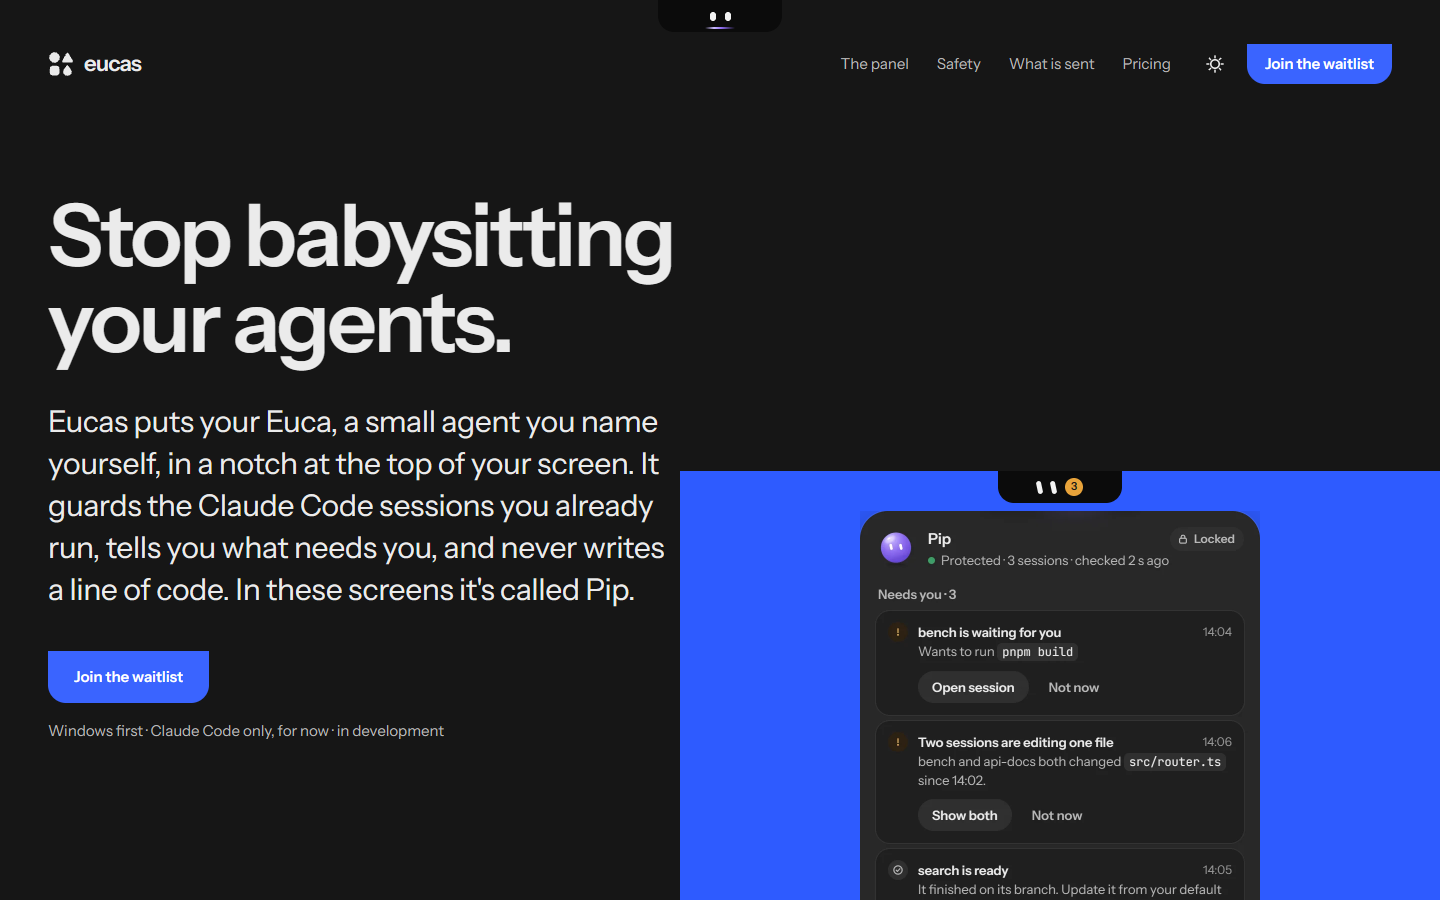
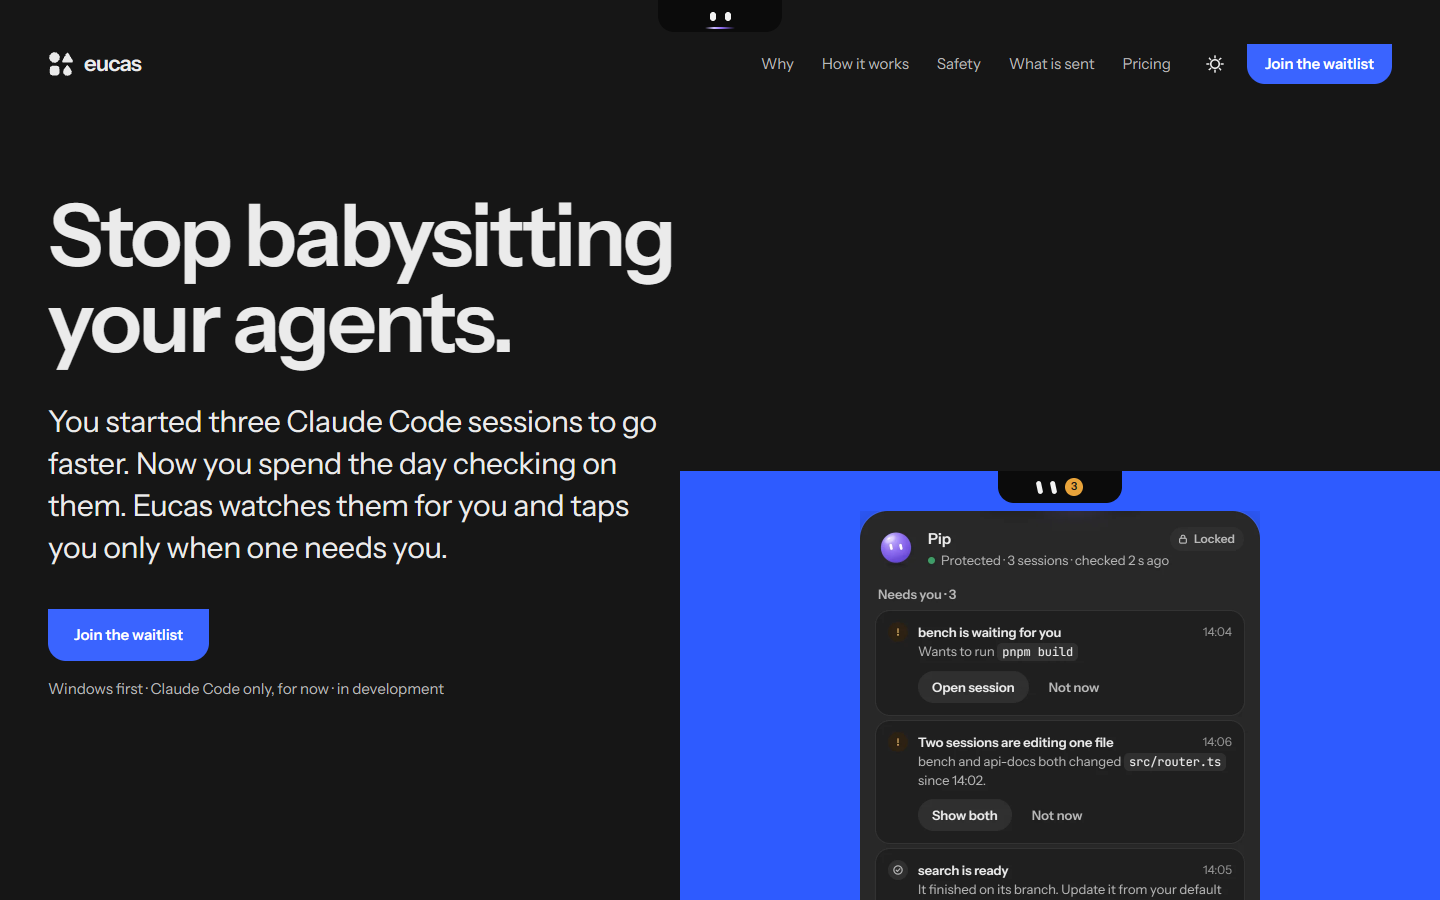
feat(landing): rewrite the page why-first, for the person running the sessions
- Hero: the pain first ("You started three Claude Code sessions to go faster. Now you spend the day checking on them."), then the promise.
- New "Running agents shouldn't feel like this.": four pains from a real day (waiting for a yes, a delete you didn't read, the limit mid-task, two sessions on one file), each with its fix. Replaces the eye-grammar board.
- Headings speak to the outcome: "Know which session needs you", "Look away without fear", "Stop saying yes to the same command", "What leaves your PC, word for word".
- Same-file warning added as a panel tab (new capture); naming your Euca moves to one line before the privacy text.
- Plain words in pricing, "Before you install" trimmed to four facts, FAQ to three; repeats removed.

Changed region(s): [[0.0312, 0.4356, 0.4688, 0.84], [0.5312, 0.0622, 0.625, 0.0933]]

diff --git a/apps/landing/public/index.html b/apps/landing/public/index.html
@@ -4,7 +4,7 @@
 <meta charset="utf-8">
 <meta name="viewport" content="width=device-width, initial-scale=1">
 <title>Eucas: an agentsitter for your Claude Code sessions</title>
-<meta name="description" content="Eucas puts your Euca, a small agent you name yourself, in a notch at the top of your Windows screen. It guards the Claude Code sessions you already run, tells you what needs you, and never writes code. Join the waitlist.">
+<meta name="description" content="You run Claude Code sessions to go faster, then spend the day checking on them. Eucas watches them for you on Windows and taps you only when one needs you. Join the waitlist.">
 <link rel="canonical" href="https://eucas.app/">
 <meta name="color-scheme" content="dark light">
 <meta name="theme-color" content="#161616">
@@ -52,7 +52,8 @@
     <span>eucas</span>
   </a>
   <nav class="nav-links" aria-label="Main">
-    <a href="#panel">The panel</a>
+    <a href="#problem">Why</a>
+    <a href="#panel">How it works</a>
     <a href="#never">Safety</a>
     <a href="#sent">What is sent</a>
     <a href="#pricing">Pricing</a>
@@ -72,7 +73,7 @@
 <section class="hero" data-state="working" aria-labelledby="hero-title">
   <div class="wrap hero-copy">
     <h1 id="hero-title" data-rise>Stop babysitting your agents.</h1>
-    <p class="lede" data-rise>Eucas puts your Euca, a small agent you name yourself, in a notch at the top of your screen. It guards the Claude Code sessions you already run, tells you what needs you, and never writes a line of code. In these screens it's called Pip.</p>
+    <p class="lede" data-rise>You started three Claude Code sessions to go faster. Now you spend the day checking on them. Eucas watches them for you and taps you only when one needs you.</p>
     <div class="hero-actions" data-rise>
       <a class="btn" href="#join">Join the waitlist</a>
       <p class="hero-note">Windows first · Claude Code only, for now · in development</p>
@@ -86,17 +87,14 @@
   </div>
 </section>
 
-<!-- Proof: the notch's states, large, each on its own tile. -->
-<section class="states wrap" data-state="marker" aria-labelledby="states-title">
-  <ul class="board" data-ui>
-    <li class="tile tile-head" data-rise><h2 id="states-title">Read your Euca at a glance.</h2></li>
-    <li class="tile" data-rise><span class="tile-notch" data-ui aria-hidden="true"><span class="eyes" data-x="calm"><i></i><i></i></span></span><p><b>Calm.</b> Protected, nothing running. It follows your pointer and blinks.</p></li>
-    <li class="tile" data-rise><span class="tile-notch" data-ui aria-hidden="true"><span class="eyes" data-x="focused"><i></i><i></i></span></span><p><b>Focused.</b> Your sessions are working. The eyes read left to right.</p></li>
-    <li class="tile" data-rise><span class="tile-notch" data-ui aria-hidden="true"><span class="eyes" data-x="glance"><i></i><i></i></span></span><p><b>Glance.</b> Something just arrived: one look at it.</p></li>
-    <li class="tile" data-rise><span class="tile-notch" data-ui aria-hidden="true"><span class="eyes" data-x="front"><i></i><i></i></span></span><p><b>Toward you.</b> A session is waiting for you.</p></li>
-    <li class="tile" data-rise><span class="tile-notch" data-ui aria-hidden="true"><span class="eyes" data-x="concerned"><i></i><i></i></span></span><p><b>Concerned.</b> Something needs a look. Softened, never alarmed.</p></li>
-    <li class="tile" data-rise><span class="tile-notch" data-ui aria-hidden="true"><span class="eyes" data-x="sleepy"><i></i><i></i></span></span><p><b>Sleepy.</b> You're away and nothing runs.</p></li>
-    <li class="tile" data-rise><span class="tile-notch" data-ui aria-hidden="true"><span class="eyes" data-x="pleased"><i></i><i></i></span></span><p><b>Pleased.</b> You're all caught up.</p></li>
+<!-- Why: the visitor's own day, each pain with its fix. -->
+<section class="problem wrap" id="problem" data-state="marker" aria-labelledby="problem-title">
+  <h2 id="problem-title" data-rise>Running agents shouldn't feel like this.</h2>
+  <ul class="pains">
+    <li data-rise><p class="pain">Waiting for your yes since minute two.</p><p class="fix">You see it the second a session stops.</p></li>
+    <li data-rise><p class="pain">One delete you didn't read.</p><p class="fix">It can't happen without you.</p></li>
+    <li data-rise><p class="pain">Your limit, hit with the task half done.</p><p class="fix">You see when you'll run out, with time to spare.</p></li>
+    <li data-rise><p class="pain">Two sessions, one file.</p><p class="fix">You're warned before one overwrites the other.</p></li>
   </ul>
 </section>
 
@@ -108,15 +106,17 @@
       <img src="screens/needs-dark.webp" data-dark="screens/needs-dark.webp" data-light="screens/needs-light.webp" width="800" height="1280" loading="lazy" decoding="async" alt="" data-show-img>
     </picture>
   </div>
+
   <div class="show-side">
     <div class="tabs" role="tablist" aria-label="The panel" data-rise>
       <button type="button" role="tab" id="tab-needs" aria-selected="true" aria-controls="show-text" data-show="needs">Needs you</button>
       <button type="button" role="tab" id="tab-usage" aria-selected="false" aria-controls="show-text" tabindex="-1" data-show="usage">Usage</button>
+      <button type="button" role="tab" id="tab-same" aria-selected="false" aria-controls="show-text" tabindex="-1" data-show="same">Same file</button>
       <button type="button" role="tab" id="tab-rules" aria-selected="false" aria-controls="show-text" tabindex="-1" data-show="rules">Rules</button>
     </div>
     <div id="show-text" role="tabpanel" aria-labelledby="tab-needs" data-rise>
-      <h2 id="show-title" data-show-title>One click under the notch.</h2>
-      <p data-show-text>Hover the notch for a peek, click it for the panel. What waits on you sits on top, one action each. Nothing opens by itself.</p>
+      <h2 id="show-title" data-show-title>Know which session needs you.</h2>
+      <p data-show-text>One glance at the top of your screen. Hover for a peek, click for the panel. Nothing pops up and nothing steals your focus.</p>
     </div>
     <div class="cells" data-rise>
       <a class="cell cell-ink" href="#join">Join the waitlist</a>
@@ -129,14 +129,15 @@
 <section class="never" id="never" data-state="trip" aria-labelledby="never-title">
   <div class="wrap never-in">
     <div class="never-copy">
-      <h2 id="never-title" data-rise>Four things it never approves.</h2>
+      <h2 id="never-title" data-rise>Look away without fear.</h2>
+      <p class="never-lead" data-rise>Four things always come to you:</p>
       <ul class="limits" data-rise>
         <li>A delete</li>
         <li>A push to your default branch</li>
         <li>A send</li>
         <li>A payment</li>
       </ul>
-      <p data-rise>Setup locks these four limits with one Windows admin prompt, where no agent or repo can change them. If a session starts deleting files in bulk, the tripwire stops it and shows you what went and how to get it back.</p>
+      <p data-rise>They're locked where no agent or repo can change them. And if a session starts deleting files in bulk, it's stopped, and you see what went and how to get it back.</p>
     </div>
     <figure class="trip" data-rise>
       <img src="screens/tripwire-dark.webp" data-dark="screens/tripwire-dark.webp" data-light="screens/tripwire-light.webp" width="800" height="993" loading="lazy" decoding="async" alt="Tripwire stop: Pip stopped the notes session at 14:02:31. It deleted 1,240 files in 20 seconds. What was deleted: notes/drafts/ 912 files, notes/archive/2025/ 301 files, notes/.obsidian/ 27 files. How to get them back: git restore, or File History.">
@@ -147,8 +148,8 @@
 <!-- Rules: sentences with real switches. The last one is locked and doesn't move. -->
 <section class="rules" data-state="working" aria-labelledby="rules-title">
   <div class="wrap rules-head">
-    <h2 id="rules-title" data-rise>Rules you can read.</h2>
-    <p data-rise>Say once what your sessions may do without asking, scoped to one folder. Describe a rule in plain words and your Euca drafts it exactly. Your rules always decide first.</p>
+    <h2 id="rules-title" data-rise>Stop saying yes to the same command.</h2>
+    <p data-rise>Say once what your sessions may do, scoped to one folder, or describe it in plain words and your Euca writes the rule. Try them.</p>
   </div>
   <ul class="bands">
     <li class="band" data-band="mint">
@@ -181,7 +182,8 @@
 <!-- The supervisor: what is sent, word for word, and the real redacted example from setup. -->
 <section class="sent wrap" id="sent" data-state="focused" aria-labelledby="sent-title">
   <div class="sent-copy">
-    <h2 id="sent-title" data-rise>What is sent, word for word.</h2>
+    <h2 id="sent-title" data-rise>What leaves your PC, word for word.</h2>
+    <p class="statement" data-rise>Your Euca is called Pip here; you name yours.</p>
     <p class="statement" data-rise>When Pip isn't sure, it sends the waiting session's last message, trimmed and with code, paths and secrets removed, to the supervisor. Nothing else about your work leaves this PC. Your account holds only your email, your plan and how much supervisor help you've used.</p>
   </div>
   <div class="sent-side">
@@ -193,7 +195,6 @@
     <ul class="facts" data-rise>
       <li><b>The supervisor is always on and can't be switched off.</b></li>
       <li><b>It never approves a tool call.</b> It can nudge a stopped session on, answer from your rules, or ask you.</li>
-      <li><b>Its help is counted monthly.</b> When it runs out, your Euca asks you more often until the meter resets.</li>
     </ul>
   </div>
 </section>
@@ -202,12 +203,12 @@
 <section class="pricing wrap" id="pricing" data-state="rest" aria-labelledby="pricing-title">
   <div class="free">
     <h2 id="pricing-title" data-rise>Free, or Pro.</h2>
-    <p data-rise><b>Free</b> keeps every session safe, with no card:</p>
+    <p data-rise><b>Free</b>, with no card:</p>
     <ul class="lines" data-rise>
-      <li>The guard, and the four limits locked</li>
-      <li>The tripwire for mass deletes</li>
-      <li>Your rules, and the ledger of where your usage went</li>
-      <li>The supervisor: a 14-day trial from the end of setup, then a free taste every month</li>
+      <li>The four limits, locked</li>
+      <li>A stop when a session deletes files in bulk</li>
+      <li>Your rules, and where your usage went</li>
+      <li>The supervisor in full for 14 days, then a little every month</li>
     </ul>
     <a class="btn btn-quiet" href="#join" data-plan="free" data-rise>Join for Free</a>
   </div>
@@ -218,7 +219,7 @@
     </figure>
     <ul class="lines" data-rise>
       <li>Everything in Free</li>
-      <li>Much more supervisor help, every month</li>
+      <li>Much more supervisor help every month</li>
       <li>Budgets that stop a session before its next step</li>
       <li>The first 200 who pay keep <b>$15/month for life</b></li>
     </ul>
@@ -230,11 +231,10 @@
 <section class="know wrap" data-state="rest" aria-labelledby="know-title">
   <h2 id="know-title" data-rise>Before you install.</h2>
   <dl class="know-list" data-rise>
+    <div><dt>Windows and Claude Code, for now</dt><dd>Sessions in a terminal, the desktop app or VS Code. What comes next depends on the waitlist's answers.</dd></div>
+    <div><dt>Your Claude login stays yours</dt><dd>Eucas never sees or stores it.</dd></div>
     <div><dt>A Eucas account, by email</dt><dd>You sign in with your email and a 6-digit code, no password.</dd></div>
-    <div><dt>Your Claude login stays yours</dt><dd>Eucas never sees or stores your Claude credentials. It works beside Claude Code through its hooks and the history already on your PC.</dd></div>
-    <div><dt>Claude Code, for now</dt><dd>Claude Code sessions only, in a terminal, the desktop app or VS Code. What comes next depends on the waitlist's answers.</dd></div>
-    <div><dt>Windows first, unsigned</dt><dd>The first build isn't code-signed yet, so Windows will say "Unknown publisher". Each installer's SHA-256 is published so you can check it.</dd></div>
-    <div><dt>Code you can read</dt><dd>The source is public on GitHub under the FSL licence, so you can check every claim on this page.</dd></div>
+    <div><dt>The first build is unsigned</dt><dd>Windows will say "Unknown publisher". Each installer's SHA-256 is published so you can check it.</dd></div>
   </dl>
 </section>
 
@@ -293,7 +293,6 @@
   <ul class="cards" data-faq>
     <li class="card"><h3><button type="button" aria-expanded="true" aria-controls="a1" id="q1"><span class="tab">Today</span>Can I use it today?</button></h3><div class="a" id="a1" role="region" aria-labelledby="q1"><p>Not yet. Eucas is in development. The waitlist gets the first Windows build, and you'll hear from us when it's ready to install.</p></div></li>
     <li class="card"><h3><button type="button" aria-expanded="false" aria-controls="a4" id="q4"><span class="tab">Agents</span>Does it work with Cursor or Codex?</button></h3><div class="a" id="a4" role="region" aria-labelledby="q4" hidden><p>Not yet. Claude Code comes first. Which one follows depends on the answers to "Which agents do you use?" in the waitlist.</p></div></li>
-    <li class="card"><h3><button type="button" aria-expanded="false" aria-controls="a5" id="q5"><span class="tab">Pro</span>What does the founders' price mean?</button></h3><div class="a" id="a5" role="region" aria-labelledby="q5" hidden><p>It belongs to your Eucas account, not your PC, for as long as you keep Pro. Free stays free.</p></div></li>
     <li class="card"><h3><button type="button" aria-expanded="false" aria-controls="a6" id="q6"><span class="tab">Computers</span>macOS or Linux?</button></h3><div class="a" id="a6" role="region" aria-labelledby="q6" hidden><p>Windows first. Tell us your computer after you join the waitlist: it's how we decide which one is next.</p></div></li>
   </ul>
 </section>

diff --git a/apps/landing/public/styles.css b/apps/landing/public/styles.css
@@ -174,6 +174,7 @@ h3 { font-size: var(--t-m); font-weight: 600; letter-spacing: -0.015em; line-hei
 .beam i { position: absolute; inset: 0 auto 0 0; width: 46%; border-radius: 2px; background: linear-gradient(90deg, transparent, var(--euca-light) 30%, var(--euca-base) 55%, transparent); /* taste-skill-ignore: the product's working beam */ animation: sweep 1.7s ease-in-out infinite alternate; }
 .notch[data-state="working"] .beam { opacity: 1; }
 @keyframes sweep { to { transform: translateX(118%); } }
+@keyframes scan { from { transform: translateX(-2px); } to { transform: translateX(2px); } } /* Focused: the eyes read left to right */
 
 .peek {
   position: absolute; top: 0; width: min(372px, calc(100vw - 32px)); padding: 40px 16px 14px;
@@ -232,29 +233,17 @@ h3 { font-size: var(--t-m); font-weight: 600; letter-spacing: -0.015em; line-hei
 .hero-panel { width: 400px; margin-top: 40px; flex: none; }
 .hero-panel img { width: 400px; }
 
-/* ---------- Proof: the notch's states on tiles ---------- */
-.states { margin-top: var(--gap-section); }
-.board { display: grid; grid-template-columns: repeat(4, 1fr); gap: 8px; }
-.tile {
-  position: relative; display: flex; flex-direction: column; justify-content: flex-end; gap: 10px;
-  min-height: 230px; padding: 0 24px 24px; background: var(--surface); border-radius: 0 0 var(--nr) var(--nr); overflow: hidden;
+/* ---------- Why: the visitor's day, each pain with its fix ---------- */
+.problem { margin-top: var(--gap-section); }
+.problem h2 { max-width: 16ch; }
+.pains { margin-top: 56px; display: grid; gap: 8px; }
+.pains li {
+  display: grid; grid-template-columns: 7fr 5fr; gap: 32px; align-items: center;
+  padding: 36px clamp(20px, 3vw, 40px); background: var(--surface); border-radius: 0 0 var(--nr) var(--nr);
 }
-/* each tile carries a notch hanging from its top edge, drawn to the eye grammar (DESIGN.md §11) */
-.tile-notch { position: absolute; top: 0; left: 50%; transform: translateX(-50%) scale(1.6); transform-origin: top center; display: flex; align-items: center; justify-content: center; width: 124px; height: 32px; background: var(--notch-bg); border-radius: 0 0 16px 16px; }
-.eyes[data-x] i { transition: none; }
-.eyes[data-x="glance"] i { transform: translate(3px, 1px) rotate(-12deg); }
-.eyes[data-x="focused"] i { width: 6px; height: 9px; border-radius: 3px; transform: none; animation: scan 2.4s ease-in-out infinite alternate; }
-@keyframes scan { from { transform: translateX(-2px); } to { transform: translateX(2px); } }
-.eyes[data-x="front"] i { transform: translateY(-1.5px) rotate(-12deg); }
-.eyes[data-x="concerned"] i:first-child { transform: translateY(1.5px) rotate(16deg); }
-.eyes[data-x="concerned"] i:last-child { transform: translateY(1.5px) rotate(-16deg); }
-.eyes[data-x="sleepy"] i { width: 9px; height: 2.6px; background: var(--notch-eye-dim); transform: translateY(3px); }
-.eyes[data-x="pleased"] i { width: 9px; height: 5px; border-radius: 9px 9px 3px 3px; transform: translateY(-1px); }
-.tile p { font-size: var(--t-s); color: var(--muted); }
-.tile p b { color: var(--ink); font-weight: 600; }
-.tile-head { justify-content: flex-end; padding: 28px; background: var(--ink); color: var(--on-ink); }
-.tile-head h2 { font-size: clamp(26px, 2.4vw, 36px); }
-.tile-head p { color: var(--on-ink); font-size: var(--t-b); max-width: 40ch; }
+.pain { font-size: clamp(24px, 2.6vw, 36px); font-weight: 600; letter-spacing: -0.025em; line-height: 1.15; }
+.fix { color: var(--muted); }
+.fix::before { content: ""; display: block; width: 30px; height: 12px; margin-bottom: 12px; background: var(--ink); border-radius: 0 0 6px 6px; } /* the notch, at text size */
 
 /* ---------- Showcase: a square plate and the panel's tabs ---------- */
 .show { margin-top: var(--gap-section); display: grid; grid-template-columns: 1fr 1fr; gap: clamp(32px, 5vw, 88px); align-items: stretch; min-height: 88svh; }
@@ -283,8 +272,9 @@ h3 { font-size: var(--t-m); font-weight: 600; letter-spacing: -0.015em; line-hei
 /* ---------- The band: notch black in both themes ---------- */
 .never { margin-top: var(--gap-section); background: var(--notch-bg); color: var(--notch-text); padding-block: clamp(96px, 10vw, 160px); }
 .never-in { display: grid; grid-template-columns: 1.15fr 1fr; gap: clamp(32px, 6vw, 96px); align-items: center; }
-.never h2 { max-width: 11ch; }
-.limits { margin-top: 40px; display: grid; gap: 10px; }
+.never h2 { max-width: 12ch; }
+.never-lead { margin-top: 32px; color: var(--notch-text-2); }
+.limits { margin-top: 16px; display: grid; gap: 10px; }
 .limits li { display: flex; align-items: center; gap: 16px; font-size: var(--t-m); font-weight: 600; letter-spacing: -0.015em; }
 .limits li::before { content: ""; flex: none; width: 30px; height: 12px; background: var(--notch-eye); border-radius: 0 0 6px 6px; } /* the notch, at text size */
 .never-copy > p:last-child { margin-top: 40px; max-width: 52ch; color: var(--notch-text-2); }
@@ -296,6 +286,7 @@ h3 { font-size: var(--t-m); font-weight: 600; letter-spacing: -0.015em; line-hei
 .rules { margin-top: var(--gap-section); }
 .rules-head { display: grid; grid-template-columns: 1fr 1fr; gap: 48px; align-items: end; margin-bottom: 56px; }
 .rules-head p { max-width: 44ch; }
+.rules h2 { max-width: 14ch; }
 .band { background: var(--bg); transition: background-color 0.4s var(--ease); }
 .band.is-on[data-band="mint"] { background: var(--band-mint); }
 .band.is-on[data-band="honey"] { background: var(--band-honey); }
@@ -320,7 +311,8 @@ h3 { font-size: var(--t-m); font-weight: 600; letter-spacing: -0.015em; line-hei
 
 /* ---------- What is sent ---------- */
 .sent { margin-top: var(--gap-section); display: grid; grid-template-columns: 5fr 7fr; gap: clamp(32px, 5vw, 80px); align-items: start; }
-.sent h2 { max-width: 11ch; }
+.sent h2 { max-width: 13ch; }
+.sent .statement + .statement { margin-top: 20px; }
 .statement { margin-top: 40px; font-size: clamp(20px, 1.8vw, 24px); line-height: 1.45; letter-spacing: -0.01em; }
 .sent-side { padding-top: 8px; }
 .sent-shot { padding: 64px clamp(16px, 3vw, 40px) 32px; background: var(--stage); border-radius: 0 0 var(--nr) var(--nr); position: relative; }
@@ -445,7 +437,6 @@ h3 { font-size: var(--t-m); font-weight: 600; letter-spacing: -0.015em; line-hei
 /* ---------- Narrower screens ---------- */
 @media (max-width: 1100px) {
   .nav-links { display: none; }
-  .board { grid-template-columns: repeat(2, 1fr); }
   .facts { grid-template-columns: 1fr; gap: 16px; }
 }
 
@@ -461,12 +452,11 @@ h3 { font-size: var(--t-m); font-weight: 600; letter-spacing: -0.015em; line-hei
   .hero-stage { position: relative; left: auto; top: auto; margin-top: 48px; height: 520px; }
   .hero-panel { width: min(400px, calc(100vw - 32px)); }
   .hero-panel img { width: 100%; }
-  .tile { min-height: 200px; padding: 0 16px 16px; }
-  .tile-notch { transform: translateX(-50%); }
-  .tile:last-child { grid-column: 1 / -1; }
-  .tile-head { grid-column: 1 / -1; min-height: 0; gap: 16px; padding: 24px 20px; }
+  .pains li { grid-template-columns: 1fr; gap: 12px; padding: 24px 20px; }
   .show { grid-template-columns: 1fr; min-height: 0; gap: 32px; }
   .show-side { gap: 32px; }
+  .tabs { gap: 18px; }
+  .tabs button { font-size: 16px; }
   .show-side [role="tabpanel"] p { margin-top: 20px; }
   .cells { grid-template-columns: 1fr; }
   .cell { min-height: 60px; }

diff --git a/apps/landing/public/main.js b/apps/landing/public/main.js
@@ -114,12 +114,14 @@
 
   // The panel's own tabs pick the screen on the plate.
   const SHOW = {
-    needs: ["One click under the notch.", "Hover the notch for a peek, click it for the panel. What waits on you sits on top, one action each. Nothing opens by itself.", "needs",
+    needs: ["Know which session needs you.", "One glance at the top of your screen. Hover for a peek, click for the panel. Nothing pops up and nothing steals your focus.", "needs",
       "The panel. Needs you, 3: bench is waiting for you and wants to run pnpm build; two sessions are editing one file; search is ready, open a PR for search with the tests first."],
-    usage: ["Where your usage went.", "Your 5-hour and weekly Claude usage, when you'll reach the limit at today's pace, and which projects used it.", "usage",
-      "The Usage tab: the 5-hour window at 46 percent, resetting at 15:40, with a forecast of when you reach it; the week at 62 percent; where it went by project; the supervisor meter."],
-    rules: ["Your rules, locked or not.", "The four limits are locked. Your own rules sit under them, each with a switch.", "rules",
-      "The Rules tab: the promise, the four limits locked, and your rules with switches, such as allow pnpm test in bench."],
+    usage: ["See your limit coming.", "Your 5-hour and weekly usage, the time you'll hit the limit at today's pace, and which projects used it.", "usage",
+      "The Usage tab: the 5-hour window at 46 percent, resetting at 15:40, with a forecast of when you reach it; the week at 62 percent; where it went by project."],
+    same: ["Two sessions, one file.", "When a second session edits a file another one just changed, both show up side by side, one click apart.", "same-file",
+      "Two sessions are editing one file: bench and api-docs both changed src/router.ts since 14:02. Show both."],
+    rules: ["Stop approving the same thing.", "Rules say once what your sessions may do. The four limits stay locked.", "rules",
+      "The Rules tab: the four limits locked, and your rules with switches, such as allow pnpm test in bench."],
   };
   const tabs = $$("[data-show]");
   const showImg = $("[data-show-img]");
@@ -154,7 +156,7 @@
       if (!es.some(e => e.isIntersecting)) return;
       warm.disconnect();
       const t = root.dataset.theme === "light" ? "light" : "dark";
-      ["usage", "rules"].forEach(n => { new Image().src = `screens/${n}-${t}.webp`; });
+      ["usage", "same-file", "rules"].forEach(n => { new Image().src = `screens/${n}-${t}.webp`; });
     }, { rootMargin: "400px 0px" });
     warm.observe(show);
   }
